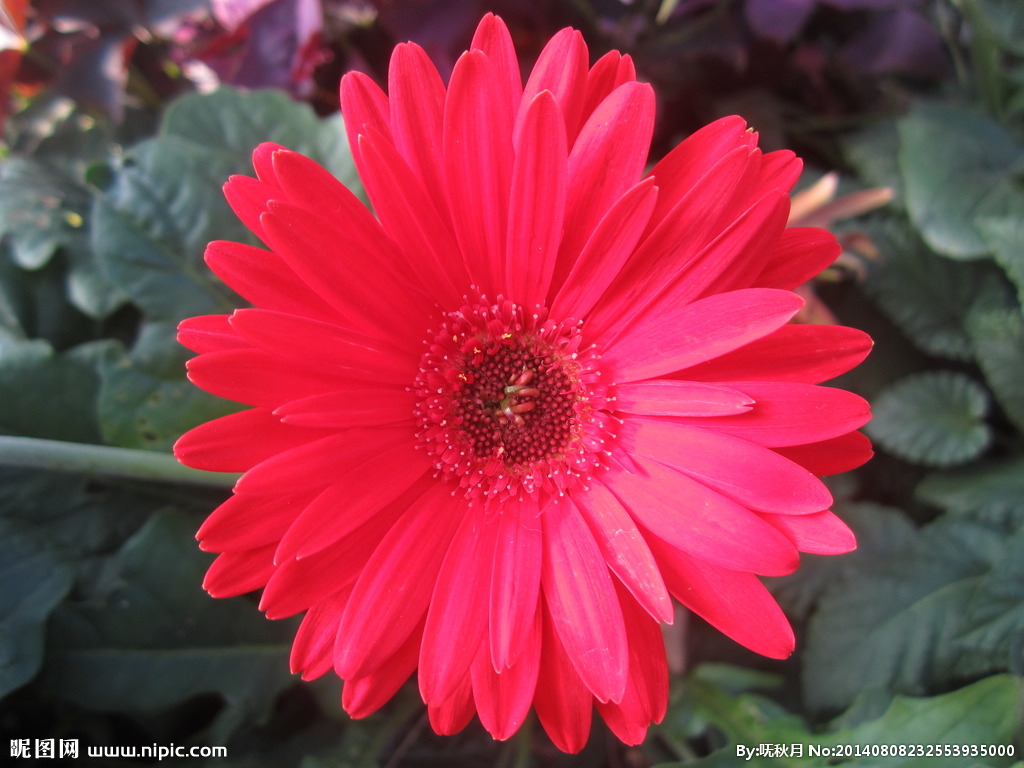
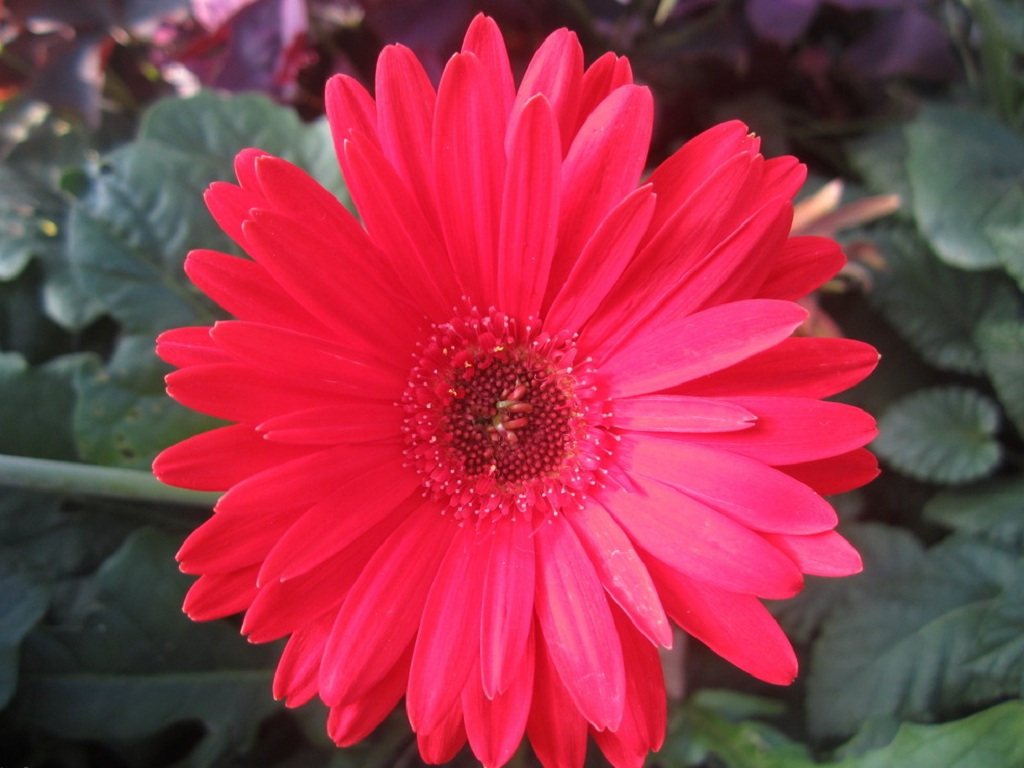
Modify layout of flower page to 4 items per row; Separate content of each button into two rows to prevent button overlap; Crop flower3 to remove imprints.

diff --git a/flowers.php b/flowers.php
@@ -121,70 +121,76 @@
   <div class="container_p">
   <h3 style="color:white; text-align:left;">Purchase of flower(s) for Charity:</h3>
     <div class="pure-g">
-      <div class="pure-u-1-3">
+      <div class="pure-u-1-4">
         <img class="pure-img flower" src="static/img/flower1.jpg">
       </div>
-      <div class="pure-u-1-3">
+      <div class="pure-u-1-4">
         <img class="pure-img flower" src="static/img/flower2.jpg">
       </div>
-      <div class="pure-u-1-3">
+      <div class="pure-u-1-4">
         <img class="pure-img flower" src="static/img/flower2.jpg">
+      </div>
+      <div class="pure-u-1-4">
+        <img class="pure-img flower" src="static/img/flower3.jpg">
       </div>
     </div>
     <div class="pure-g">
-      <div class="pure-u-1-3">
-        <button class="pure-button" onclick="flower1.add()">Sunflower (single) S$5.00</button>
+      <div class="pure-u-1-4">
+        <button class="pure-button" onclick="flower1.add()">Sunflower (single)<br/>S$5.00</button>
       </div>
-      <div class="pure-u-1-3">
-        <button class="pure-button" onclick="flower2.add()">Rose (single) S$3.50</button>
+      <div class="pure-u-1-4">
+        <button class="pure-button" onclick="flower2.add()">Rose (single)<br/>S$3.50</button>
       </div>
-      <div class="pure-u-1-3">
-        <button class="pure-button" onclick="flower3.add()">Roses (bouquet of 3) S$15.00</button>
+      <div class="pure-u-1-4">
+        <button class="pure-button" onclick="flower3.add()">Roses (bouquet of 3)<br/>S$15.00</button>
       </div>
-    </div>
-     <div class="pure-g">
-      <div class="pure-u-1-3">
-        <img class="pure-img flower" src="static/img/flower3.jpg">
-      </div>
-      <div class="pure-u-1-3">
-        <img class="pure-img flower" src="static/img/flower3.jpg">
-      </div>
-      <div class="pure-u-1-3">
-        <img class="pure-img flower" src="static/img/flower4.jpg">
-      </div>
-    </div>
-    <div class="pure-g">
-      <div class="pure-u-1-3">
-        <button class="pure-button" onclick="flower4.add()">Gerbera (single) S$2.50</button>
-      </div>
-      <div class="pure-u-1-3">
-        <button class="pure-button" onclick="flower5.add()">Gerberas (bouquet of 3) S$10.00</button>
-      </div>
-      <div class="pure-u-1-3">
-        <button class="pure-button" onclick="flower6.add()">Plushtoys 1 (40cm) S$5.00</button>
+      <div class="pure-u-1-4">
+        <button class="pure-button" onclick="flower4.add()">Gerbera (single)<br/>S$2.50</button>
       </div>
     </div>
      <div class="pure-g">
-      <div class="pure-u-1-3">
+      <div class="pure-u-1-4">
+        <img class="pure-img flower" src="static/img/flower3.jpg">
+      </div>
+      <div class="pure-u-1-4">
         <img class="pure-img flower" src="static/img/flower4.jpg">
       </div>
-      <div class="pure-u-1-3">
-        <img class="pure-img flower" src="static/img/flower5.jpg">
+       <div class="pure-u-1-4">
+        <img class="pure-img flower" src="static/img/flower4.jpg">
       </div>
-      <div class="pure-u-1-3">
+      <div class="pure-u-1-4">
         <img class="pure-img flower" src="static/img/flower5.jpg">
       </div>
     </div>
     <div class="pure-g">
-      <div class="pure-u-1-3">
-        <button class="pure-button" onclick="flower7.add()">Plushtoys 1 (90cm) S$12.00</button>
+      <div class="pure-u-1-4">
+        <button class="pure-button" onclick="flower5.add()">Gerberas (bouquet of 3)<br/>S$10.00</button>
       </div>
-      <div class="pure-u-1-3">
-        <button class="pure-button" onclick="flower8.add()">Plushtoys 2 (42cm) S$5.00</button>
+      <div class="pure-u-1-4">
+        <button class="pure-button" onclick="flower6.add()">Plushtoys 1 (40cm)<br/>S$5.00</button>
       </div>
-      <div class="pure-u-1-3">
-        <button class="pure-button" onclick="flower9.add()">Plushtoys 2 (90cm) S$15.00</button>
+       <div class="pure-u-1-4">
+        <button class="pure-button" onclick="flower7.add()">Plushtoys 1 (90cm)<br/>S$12.00</button>
       </div>
+      <div class="pure-u-1-4">
+        <button class="pure-button" onclick="flower8.add()">Plushtoys 2 (42cm)<br/>S$5.00</button>
+      </div>
+    </div>
+     <div class="pure-g">
+      <div class="pure-u-1-4">
+        <img class="pure-img flower" src="static/img/flower5.jpg">
+      </div>
+      <div class="pure-u-1-4"></div>
+      <div class="pure-u-1-4"></div>
+      <div class="pure-u-1-4"></div>
+    </div>
+    <div class="pure-g">
+      <div class="pure-u-1-4">
+        <button class="pure-button" onclick="flower9.add()">Plushtoys 2 (90cm)<br/>S$15.00</button>
+      </div>
+      <div class="pure-u-1-4"></div>
+      <div class="pure-u-1-4"></div>
+      <div class="pure-u-1-4"></div>
     </div>
   </div>
 
